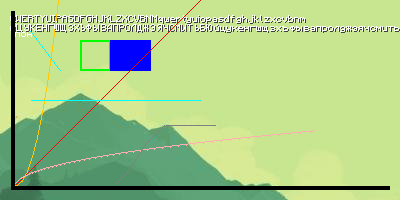
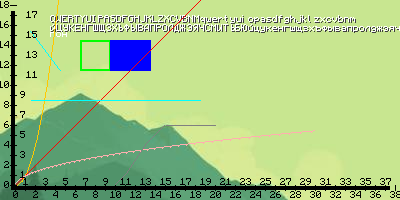
improved axis(wip) and font renderer

diff --git a/src/main/java/the/kis/devs/g2i/Main.java b/src/main/java/the/kis/devs/g2i/Main.java
@@ -44,8 +44,7 @@ public class Main {
             ) {
                 int delta = (int) Math.round(d * coeff);
 
-                if(connect/* && delta > last*/) {
-//                System.out.println(delta);
+                if(connect) {
                     if(outside) positions.add(new Pair<>(x1 + i * xCoeff + (x2 - x1), y2 + last * yCoeff - (y1 - y2)));
                     else positions.add(new Pair<>(x1 + i * xCoeff + (x2 - x1), y2 + delta * yCoeff - (y1 - y2)));
                 }
@@ -63,8 +62,7 @@ public class Main {
             ) {
                 int delta = (int) Math.round(d * coeff);
 
-                if(connect/* && delta > last*/) {
-//                System.out.println(delta + " " + xCoeff + "|" + yCoeff);
+                if(connect) {
                     if(outside) positions.add(new Pair<>(x1 + last * xCoeff + (x2 - x1), y2 + i * yCoeff - (y1 - y2)));
                     else positions.add(new Pair<>(x1 + delta * xCoeff + (x2 - x1), y2 + i * yCoeff - (y1 - y2)));
                 }
@@ -119,11 +117,9 @@ public class Main {
     public static int height;
 
     public static void render() {
-        drawString("QWERTYUIOPASDFGHJKLZXCVBNMqwertyuiopasdfghjklzxcvbnm\nЙЦУКЕНГШЩЗХЪФЫВАПРОЛДЖЭЯЧСМИТЬБЮйцукенгшщзхъфывапролджэячсмитьбю", 10, 15, -1, true);
+        drawString("QWERTYUIOPASDFGHJKLZXCVBNMqwertyuiopasdfghjklzxcvbnm\nЙЦУКЕНГШЩЗХЪФЫВАПРОЛДЖЭЯЧСМИТЬБЮйцукенгшщзхъфывапролджэячсмитьбю", 50, 15, -1, true);
 
-        drawString("пон", 15, 30, -1, false);
-
-//        drawLine(30, 30, 60, 70, Color.CYAN.getRGB());
+        drawString("пон", 50, 30, -1, false);
 
         drawRect(80, 40, 110, 70, Color.GREEN.getRGB(), false, 1);
 
@@ -141,14 +137,55 @@ public class Main {
                         {11, 1},
                         {13, 4},
                         {15, 6},
-                        {20, 6}//,
-//                        {200, 81}
+                        {20, 6}
                 },
                 axisOffset + axisWidth, height - axisOffset - axisWidth, 10, Color.GRAY.getRGB()
         );
 
         drawLine2(30, 30, 60, 70, Color.CYAN.getRGB());
         drawLine2(30, 100, 200, 100, Color.CYAN.getRGB());
+
+        //Buffering sections of axis
+        {
+            int singleSection = 10;
+
+            //X axis
+            {
+                int axisLength = width - axisOffset * 2 - axisWidth;
+
+                for (
+                        int i = 0;
+                        i <= axisLength;
+                        i++
+                ) {
+                    int section = i * singleSection;
+                    int x = axisOffset + axisWidth + section;
+
+                    drawString(String.valueOf(i), x - FontRenderer.getWidth(String.valueOf(i)) / 2, height - axisOffset + 1 - (i % 2 == 0 ? 0 : /*-1 + */axisWidth + FontRenderer.CHAR_SIZE), Color.BLACK.getRGB(), false);
+                    drawLine2(x, height - axisOffset - axisWidth - 1, x, height - axisOffset, Color.BLACK.getRGB());
+                }
+            }
+
+            //Y axis
+            {
+                int axisLength = height - axisOffset * 2 - axisWidth;
+
+                for (
+                        int i = 0;
+                        i <= axisLength;
+                        i++
+                ) {
+                    int section = i * singleSection;
+                    int y = height - axisOffset - axisWidth - section;//axisOffset + axisWidth + section;
+
+                    drawString(String.valueOf(i), axisOffset + (i % 2 == 0 ? -FontRenderer.getWidth(String.valueOf(i)) : axisWidth + FontRenderer.getWidth(String.valueOf(i)) + 1) - 1, y - FontRenderer.CHAR_SIZE / 2, Color.BLACK.getRGB(), false);
+                    drawLine2(axisOffset - 1, y, axisOffset + axisWidth + 1, y, Color.BLACK.getRGB());
+
+//                    drawString(String.valueOf(i), x - FontRenderer.getWidth(String.valueOf(i)) / 2, height - axisOffset + 1 - (i % 2 == 0 ? 0 : /*-1 + */axisWidth + FontRenderer.CHAR_SIZE), Color.BLACK.getRGB(), false);
+//                    drawLine2(x, height - axisOffset - axisWidth - 1, x, height - axisOffset, Color.BLACK.getRGB());
+                }
+            }
+        }
 
     }
 
@@ -164,14 +201,7 @@ public class Main {
             int nextX = i + 1 != points.length ? points[i + 1][0] : x;
             int nextY = i + 1 != points.length ? points[i + 1][1] : y;
 
-//            System.out.println("\n" + x + "|" + y + " " + nextX + "|" + nextY);
-//            System.out.println((zeroX + Math.round(x * singleSection)) + "|" + (zeroY - Math.round(y * singleSection)) + " " + (zeroX + Math.round(nextX * singleSection)) + "|" + (zeroY - Math.round(nextY * singleSection)));
-
-
             drawLine2(zeroX + Math.round(x * singleSection), zeroY - Math.round(y * singleSection), zeroX + Math.round(nextX * singleSection), zeroY - Math.round(nextY * singleSection), color);
-//            drawLine(zeroX + Math.round(nextX * singleSection), zeroY - Math.round(nextY * singleSection), zeroX + Math.round(x * singleSection), zeroY - Math.round(y * singleSection), color);
-
-//            drawPoint(zeroX + Math.round(x * singleSection), zeroY - Math.round(y * singleSection), -1);
         }
     }
 

diff --git a/src/main/java/the/kis/devs/g2i/FontRenderer.java b/src/main/java/the/kis/devs/g2i/FontRenderer.java
@@ -19,8 +19,9 @@ public class FontRenderer {
     private static final String TEXTURE = "/font.png";
     private static final int TEXTURE_SIZE = 128;
 
-    private static final int CHAR_SIZE = 8;
+    public static final int CHAR_SIZE = 8;
     private static final int CHAR_OFFSET = 1;
+    private static final int CHAR_MAX_WIDTH = 5;//точное только для цифр и букв да пон
     private static final char[][] CHARS_MAP = new char[][] {
             { ' ', ' ', ' ', ' ', ' ', ' ', ' ', ' ', ' ', ' ', ' ', ' ', ' ', ' ', ' ', ' ' },
             { ' ', ' ', ' ', ' ', ' ', ' ', ' ', ' ', ' ', ' ', ' ', ' ', ' ', ' ', ' ', ' ' },
@@ -61,10 +62,12 @@ public class FontRenderer {
                     int charWidth = currentChar == ' ' ? CHAR_SIZE - 2 : 0;
 
                     for (
-                            int charX = 0;
+                            int charX = 0;//, relativeCharX = 0;
                             charX < CHAR_SIZE;
                             charX++
                     ) {
+//                        boolean flag = false;
+
                         for (
                                 int charY = 0;
                                 charY < CHAR_SIZE;
@@ -73,17 +76,35 @@ public class FontRenderer {
                             if (image.getRGB(x + charX, y + charY) == -1) {
                                 pixels.add(new Pair<>(charX, charY));
 
-                                if(charX > charWidth) {
-                                    charWidth = charX + 1;
+//                                if(!flag) {
+//                                    relativeCharX++;
+//                                }
+
+                                if(/*relativeCharX*/charX > charWidth) {
+                                    charWidth = charX + 1/*relativeCharX*/;
+//                                    charWidth += 1;
+//                                    flag = true;
                                 }
                             }
                         }
                     }
 
-                    CHAR_MAP.put(currentChar, new Pair<>(pixels, charWidth));
+                    CHAR_MAP.put(currentChar, new Pair<>(pixels, Math.max(CHAR_MAX_WIDTH, charWidth)));
                 }
             }
         }
+    }
+
+    public static int getWidth(String string) {
+        int width = 0;
+
+        for(char ch : string.toCharArray()) {
+            if(CHAR_MAP.containsKey(ch)) {
+                width += CHAR_MAP.get(ch).b + CHAR_OFFSET;
+            }
+        }
+
+        return width - CHAR_OFFSET;
     }
 
     public static ArrayList<Pair<Integer, Integer>> drawString(String string) {
@@ -97,7 +118,7 @@ public class FontRenderer {
                 for(Pair<Integer, Integer> point : CHAR_MAP.get(ch).a) {
                     points.add(new Pair<>(point.a + xOffset, point.b + yOffset));
                 }
-                xOffset += (CHAR_MAP.get(ch).b + 2 * CHAR_OFFSET);
+                xOffset += (CHAR_MAP.get(ch).b + /*2 * */CHAR_OFFSET);
             } else if(ch == '\n') {
                 xOffset = 0;
                 yOffset += CHAR_OFFSET + CHAR_SIZE;
